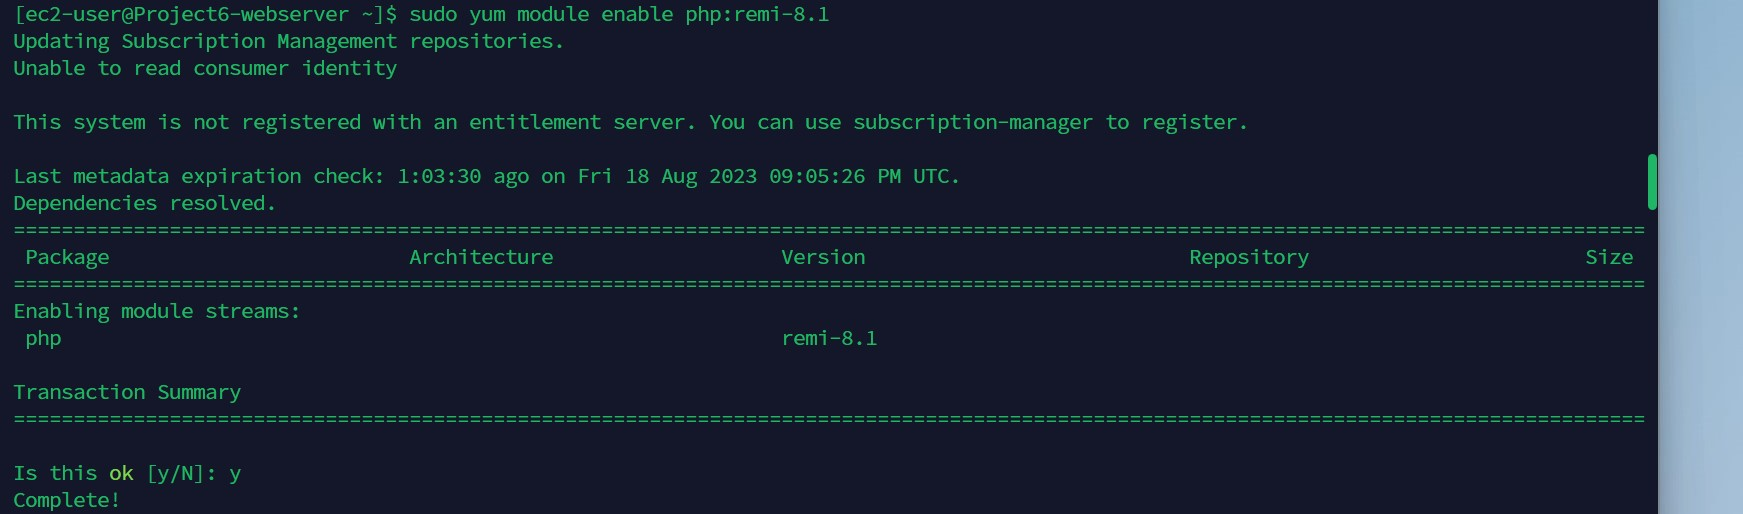
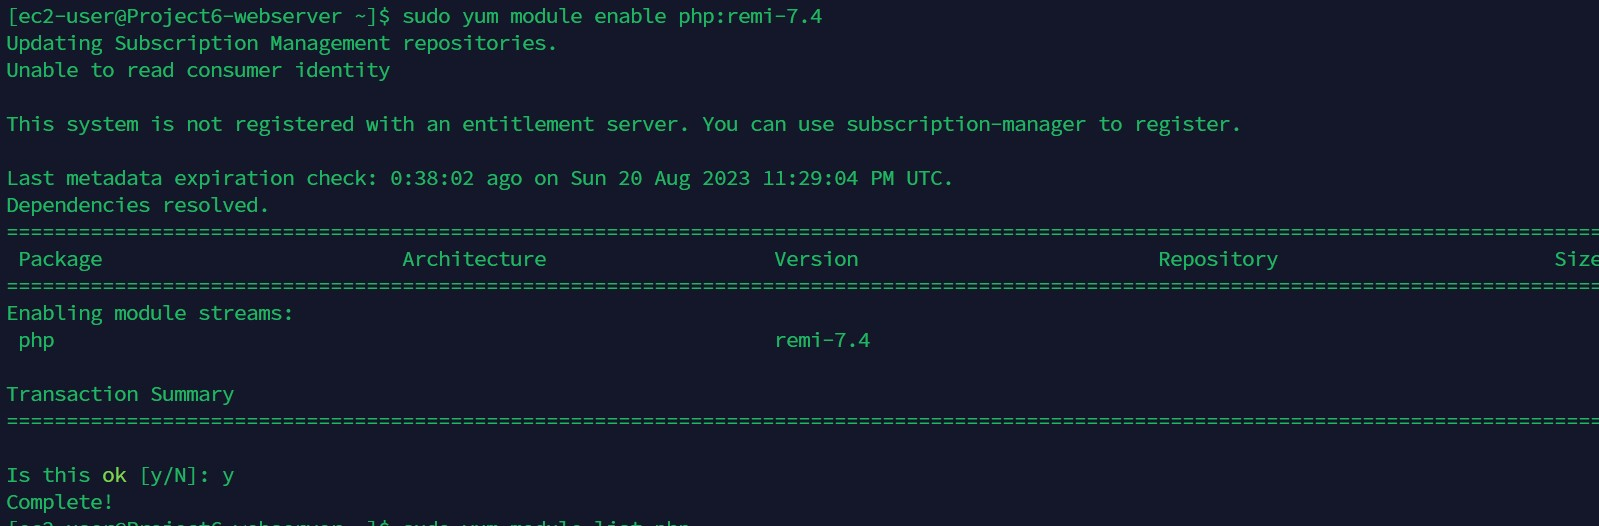
make changes

diff --git a/project6.md b/project6.md
@@ -334,7 +334,7 @@
 
 ![Module Reset PHP](./images/module-reset-php.jpg)
 
-`sudo yum module enable php:remi-8.1`
+`sudo yum module enable php:remi-7.4`
 
 ![Module Enable PHP](./images/module-enable-php.jpg)
 
@@ -447,7 +447,50 @@
 
 ![dbserver security group](./images/dbserver-security-group.jpg)
 
+1. Install MySQL client and test that you can connect from your Web Server to your DB server by using mysql-client
 
+`sudo yum install mysql`
+
+`sudo mysql -u myuser -p -h 172.31.45.110`
+
+![webserver mysql status](./images/webserver-mysql-status.jpg)
+
+2. Verify if you can successfully execute SHOW DATABASES; command and see a list of existing databases.
+
+`show databases;`
+
+![webserver dbcommand status](./images/webserver-dbcommand-status.jpg)
+
+`exit`
+
+3. Change permissions and configuration so Apache could use WordPress:
+
+`sudo chown -R apache:apache /var/www/html/wordpress`
+
+`sudo chcon -t httpd_sys_rw_content_t /var/www/html/wordpress -R`
+
+`sudo setsebool -P httpd_can_network_connect=1`
+
+`sudo vi wp-config.php`
+
+![edit apache](./images/edit-apache.jpg)
+
+`sudo systemctl restart httpd`
+
+4. Enable TCP port 80 in Inbound Rules configuration for your Web Server EC2 (enable from everywhere 0.0.0.0/0 or from your workstation’s IP)
+
+![webserver security policy status](./images/webserver-port80-security-policy.jpg)
+
+5. Try to access from your browser the link to your WordPress
+
+[wordpress site](http://13.51.172.159/wordpress/)
+
+
+![wordpress site](./images/wordpress-site.jpg)
+
+*Fill out your DB credentials:*
+
+![wordpress db status](./images/wordpress-db-status.jpg)
 
 
 
